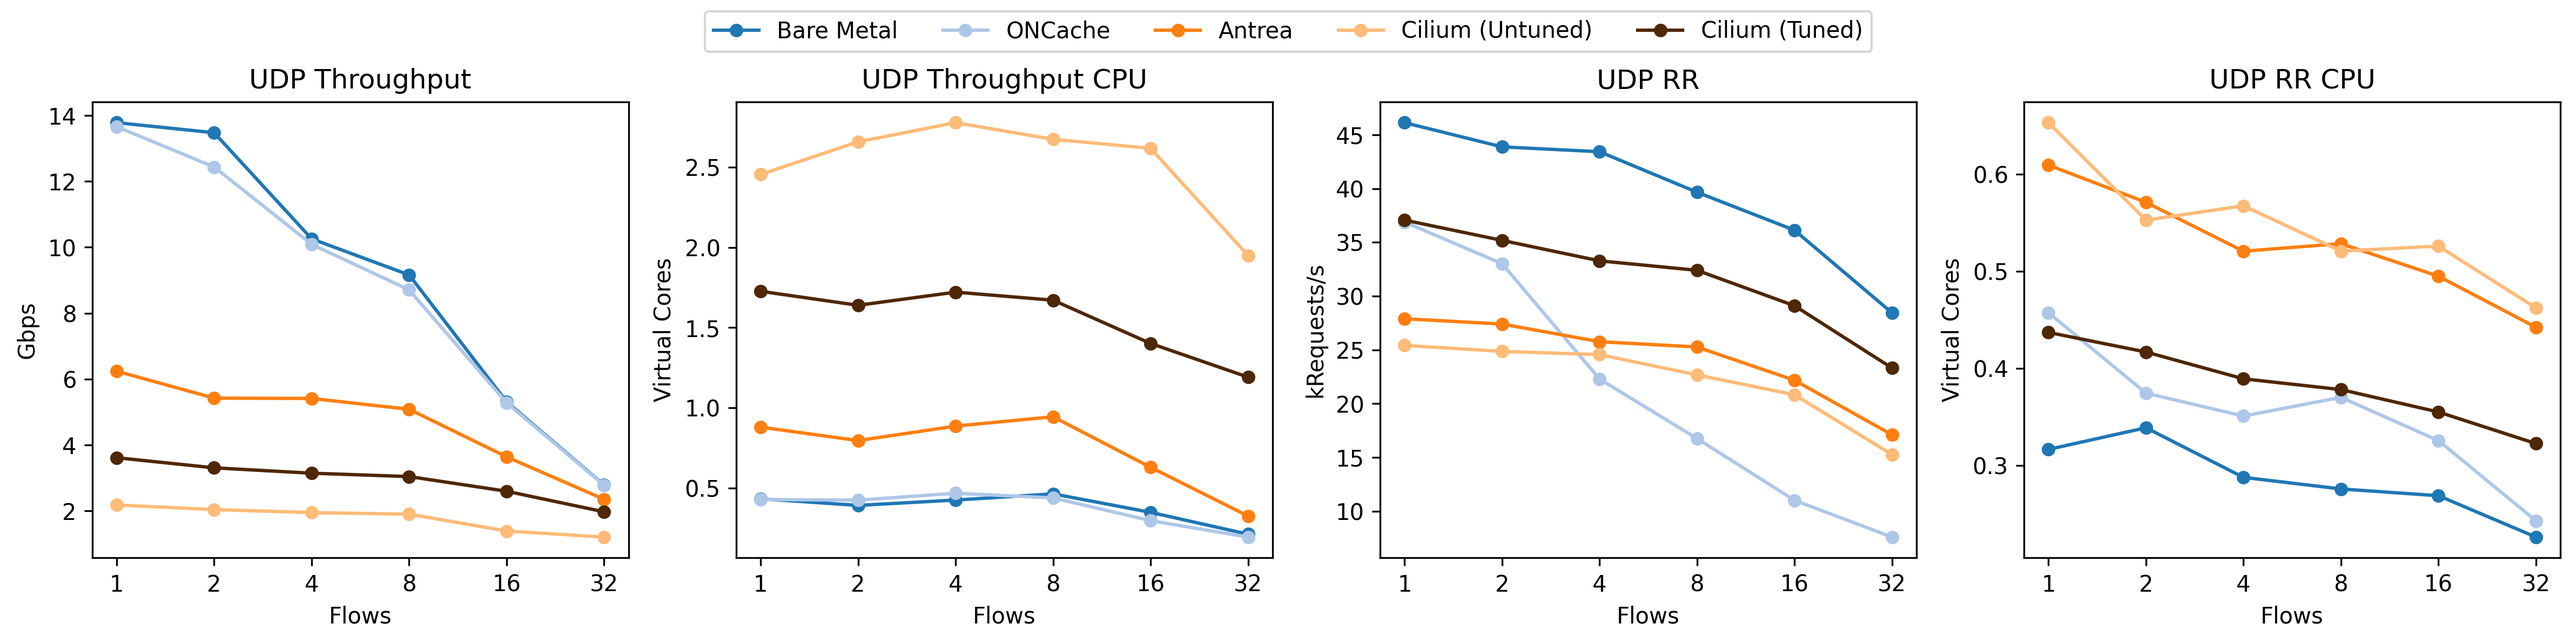
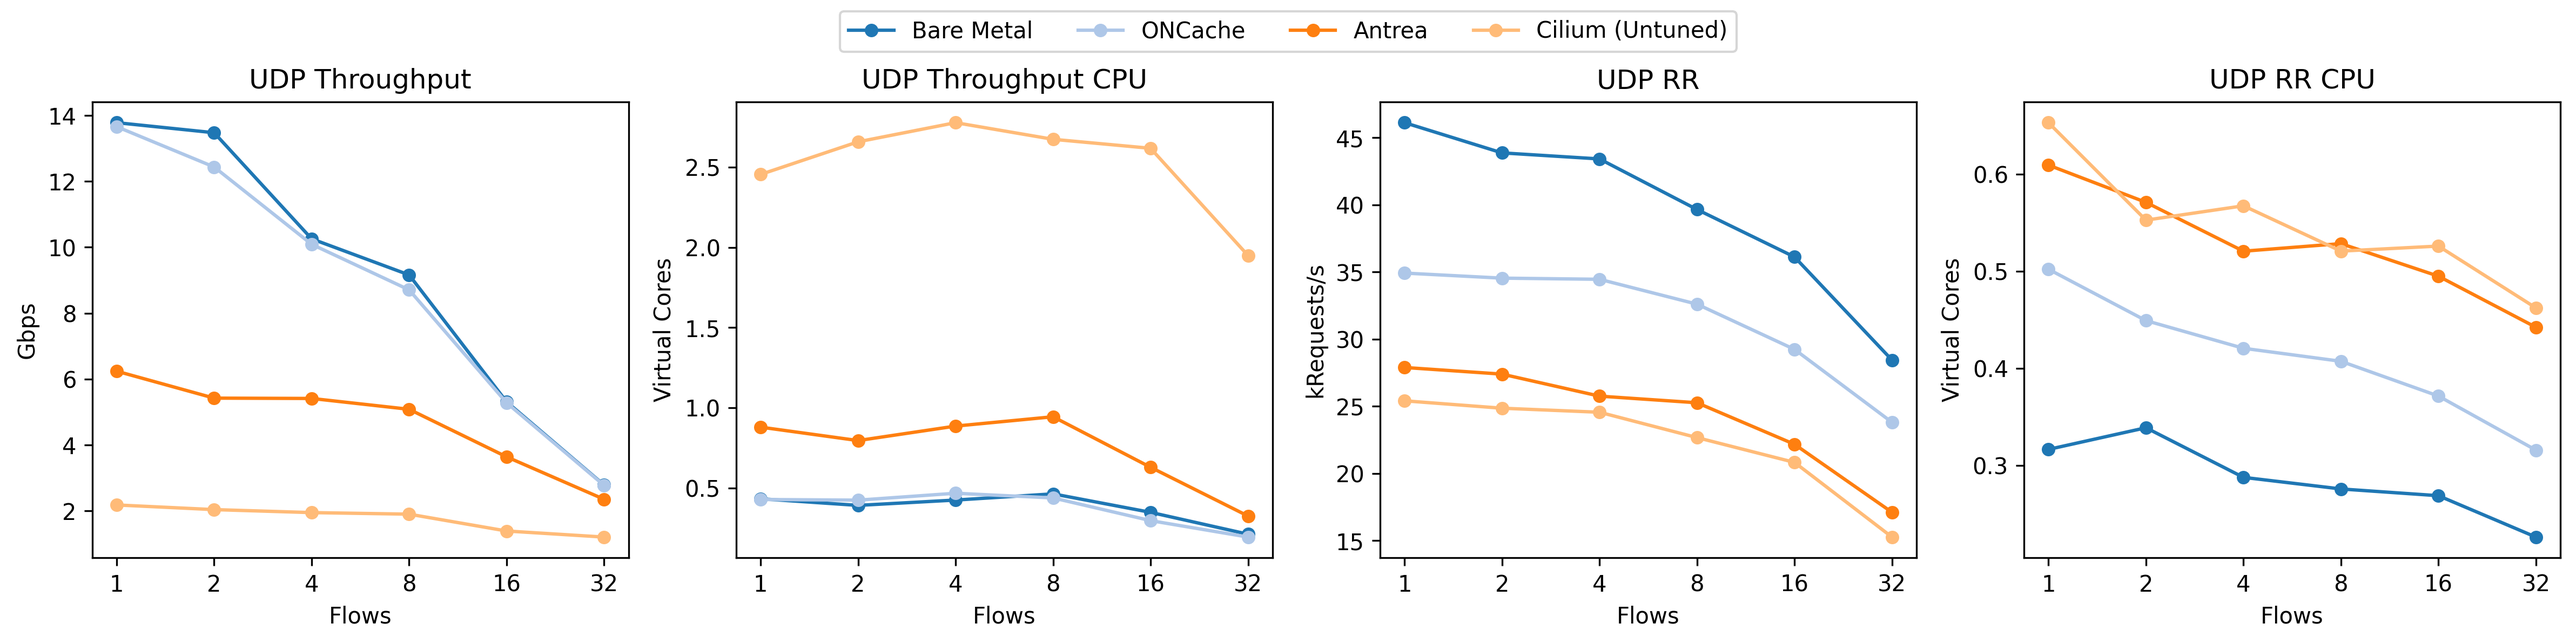
Update results and plot

diff --git a/plot.py b/plot.py
@@ -50,11 +50,11 @@ DATA_CONFIG: Dict[str, DataConfig] = {
         "label": "Cilium (Untuned)",
         "color": "#FFBB78",
     },
-    "k8s-cilium-tuned": {
-        "filename": "{}_k8s_output_cilium_tuned.csv",
-        "label": "Cilium (Tuned)",
-        "color": "#4E2705",
-    },
+    # "k8s-cilium-tuned": {
+    #     "filename": "{}_k8s_output_cilium_tuned.csv",
+    #     "label": "Cilium (Tuned)",
+    #     "color": "#4E2705",
+    # },
 }
 
 GRAPHS: List[Graph] = [
